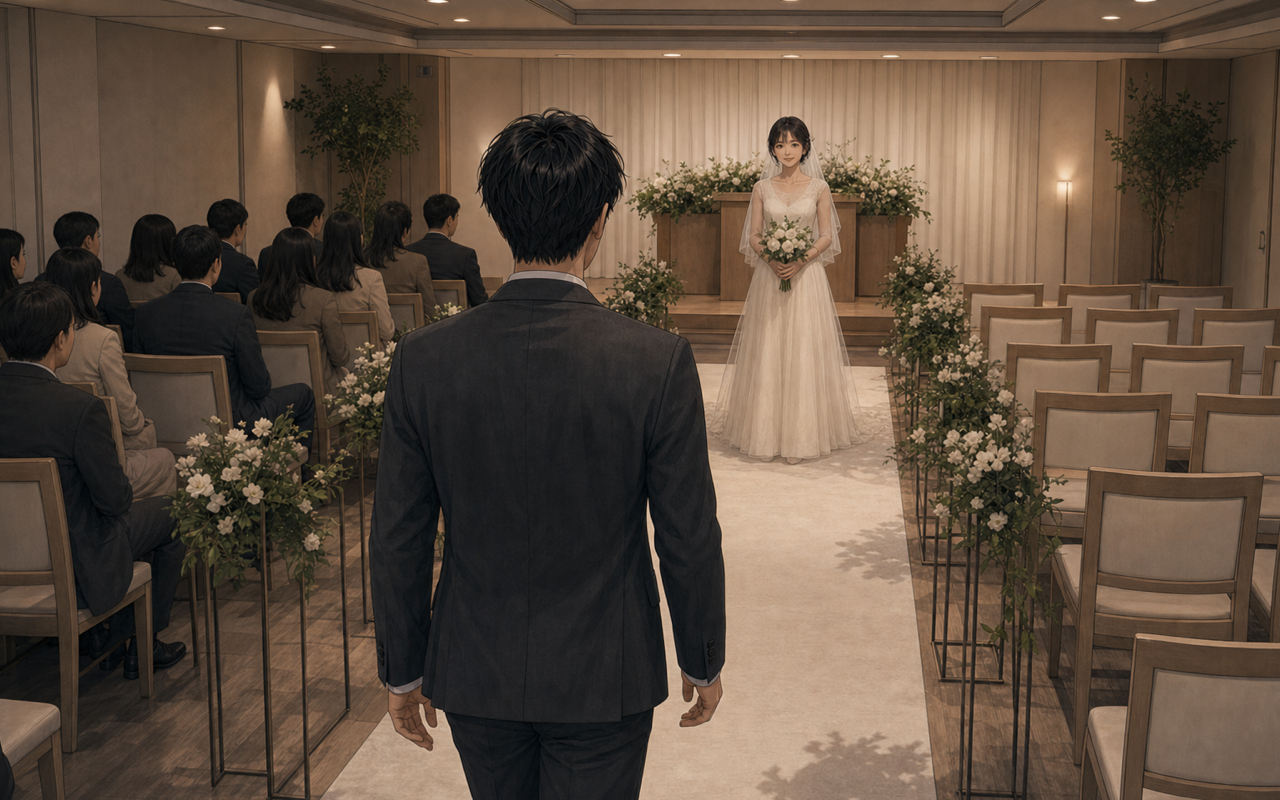
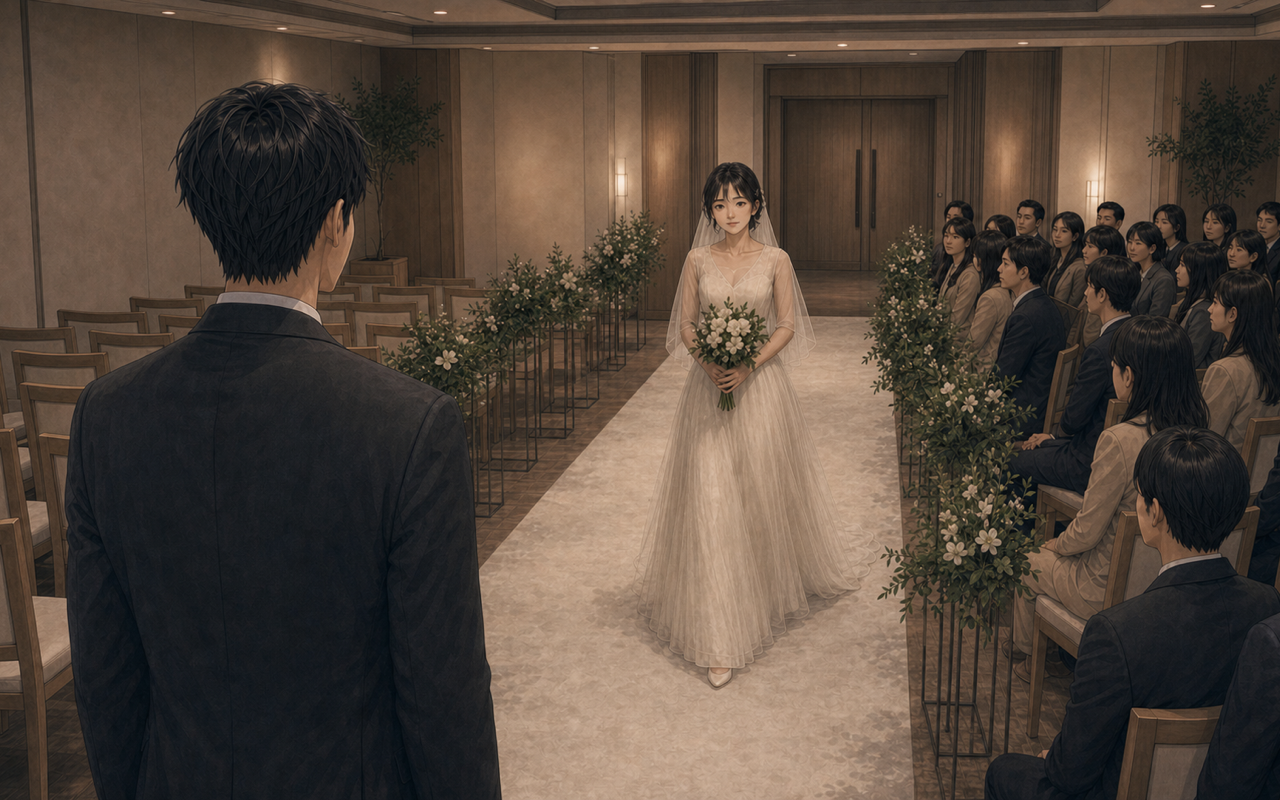
feat: rebuild Daeun wedding as a coherent climax

diff --git a/tools/peak_scene_chain_audit.py b/tools/peak_scene_chain_audit.py
@@ -57,11 +57,12 @@ MIN_DIALOGUE_TURNS = 2
 MIN_PANELS = 6
 
 # Ratchet updated only after a peak is expanded and its rendered QA passes.
-BASELINE_DEBT = 25
+BASELINE_DEBT = 24
 REQUIRED_PASS = {
     "arc_date_namsan_daeun",
     "arc_date_namsan_jiyeon",
     "arc_daeun_proposal",
+    "arc_daeun_wedding_day",
 }
 
 
@@ -241,6 +242,74 @@ def validate_daeun_proposal_contract(events: dict[str, dict[str, Any]]) -> None:
         raise ValueError("Daeun proposal defer branch must never reveal a CG")
 
 
+def validate_daeun_wedding_contract(events: dict[str, dict[str, Any]]) -> None:
+    """Preserve the paid ceremony variant and canonical aisle decision."""
+    root_id = "arc_daeun_wedding_day"
+    final_id = "arc_daeun_wedding_aisle"
+    expected_path = (
+        "arc_daeun_wedding_day",
+        "arc_daeun_wedding_walk",
+        "arc_daeun_wedding_aisle",
+    )
+    paths = walk_paths(events, root_id)
+    for path in paths:
+        if path.event_ids != expected_path:
+            raise ValueError(
+                "Daeun wedding path must retain the three-link aisle: "
+                f"{' -> '.join(path.event_ids)}"
+            )
+
+    protected_flags = {
+        "arc_daeun_wedding_day_seen",
+        "daeun_wedding_small",
+        "daeun_wedding_full",
+    }
+    for event_id in expected_path[:-1]:
+        for choice in events[event_id].get("choices") or []:
+            leaked = protected_flags.intersection(choice.get("flags") or [])
+            if leaked:
+                raise ValueError(
+                    f"Daeun wedding buildup changes route flags at {event_id}: "
+                    f"{', '.join(sorted(leaked))}"
+                )
+
+    expected_cg_if_known = {
+        "daeun_wedding_full": "cg_romance_wedding_daeun_full",
+        "daeun_wedding_small": "cg_romance_wedding_daeun_small",
+    }
+    for event_id in expected_path:
+        event = events[event_id]
+        if event.get("cg") != "cg_romance_wedding_daeun_small":
+            raise ValueError(f"Daeun wedding legacy CG changed at {event_id}")
+        if event.get("cg_if_known") != expected_cg_if_known:
+            raise ValueError(f"Daeun wedding variant map changed at {event_id}")
+
+    final_choices = events[final_id].get("choices") or []
+    if len(final_choices) != 2:
+        raise ValueError("Daeun wedding final decision must retain exactly two choices")
+    expected = (
+        {
+            "effects": {"mental": 10, "tint": 4},
+            "flags": ["arc_daeun_wedding_day_seen"],
+            "cast_effects": {"daeun": {"affinity": 8}},
+        },
+        {
+            "effects": {"mental": -6, "tint": 2},
+            "flags": ["arc_daeun_wedding_day_seen"],
+        },
+    )
+    for index, contract in enumerate(expected):
+        choice = final_choices[index]
+        for key, value in contract.items():
+            if choice.get(key) != value:
+                raise ValueError(
+                    f"Daeun wedding final choice {index} changed {key}: "
+                    f"{choice.get(key)!r}!={value!r}"
+                )
+    if final_choices[1].get("cast_effects"):
+        raise ValueError("Daeun wedding empty-seat reflection must not gain cast effects")
+
+
 def measure(label: str, root_id: str, events: dict[str, dict[str, Any]]) -> PeakMetric:
     paths = walk_paths(events, root_id)
     links = [len(path.event_ids) for path in paths]
@@ -298,6 +367,7 @@ def main() -> int:
     ko_events = load_events(EVENTS_KO)
     en_events = load_events(EVENTS_EN)
     validate_daeun_proposal_contract(ko_events)
+    validate_daeun_wedding_contract(ko_events)
     metrics = [measure(label, root_id, ko_events) for label, root_id in PEAK_ROOTS]
     visited = {
         event_id

diff --git a/assets/COMMITMENT_VISUAL_BIBLE.md b/assets/COMMITMENT_VISUAL_BIBLE.md
@@ -6,7 +6,7 @@ This document owns the visual continuity for proposal and wedding-choice scenes.
 
 - Use Gangnam Ink: Korean adult faces, restrained manhwa/VN rendering, matte paper grain, readable limited color, and deliberate Japanese visual-novel staging. No DSLR realism, mobile-game gloss, text, logos, or fake signage.
 - Minjun remains the same 33-37-year-old Korean man as `main_character_unemployed.png`: lean face, short tousled black hair, and worn black off-duty crewneck unless the scene explicitly requires formalwear.
-- Daeun remains the same 30-year-old Korean woman as `npc_daeun_smile.png`: short layered dark-brown hair, small clip at her left temple, warm brown eyes, modest adult styling. Never lengthen her hair or turn her into Jiyeon's glamorous silhouette.
+- Daeun remains the same 33-year-old Korean woman as `npc_daeun_smile.png`: short layered dark-brown hair, small clip at her left temple, warm brown eyes, modest adult styling. Never lengthen her hair or turn her into Jiyeon's glamorous silhouette.
 - Jiyeon remains the same 31-year-old Korean woman as `npc_mentor.png`: long black waves, sharp almond eyes, controlled old-money styling, and restrained geometric jewelry.
 - Named characters look at each other or the scene object. They do not address the lens unless the prose explicitly makes Minjun's POV the person being watched.
 - Keep faces, hands, the ring box, aisle imbalance, and seating chart above the lower 34% StoryMode dialogue/choice safe area.
@@ -35,10 +35,11 @@ The wedding-prep choice must survive into the wedding-day image. Both variants s
 
 ### Invariant Staging
 
-- Camera is behind/three-quarter behind Minjun as he begins walking toward Daeun at the far end of the aisle.
-- Bride side is visibly fuller; groom side is sparse. The imbalance must read in one second without labels.
+- Korean ceremony order is explicit: Minjun has already entered first and waits at the altar; Daeun enters afterward and walks from the rear doors toward him. The rear entrance, never an altar or podium, is visible behind Daeun.
+- Camera is behind/three-quarter behind Minjun at the altar and looks outward toward the entrance. Daeun approaches the camera and Minjun without lens contact.
+- Screen-left groom side is sparse; screen-right bride side is visibly fuller. The imbalance must read in one second without labels.
 - Guests remain anonymous and distant. Do not identify Father, Hyunsu, Daeun's mother, or any deceased/conditional person; those variants stay in prose and may contradict a baked guest face.
-- Daeun looks toward Minjun with contained emotion. Minjun's posture is tense but moving forward, not defeated or staring at the lens.
+- Daeun looks toward Minjun with contained emotion and a natural adult expression. Minjun's posture is tense but waiting, not defeated or staring at the lens.
 - Do not place critical guests in the lower dialogue-safe zone.
 
 ### Small Wedding
@@ -51,7 +52,7 @@ The wedding-prep choice must survive into the wedding-day image. Both variants s
 ### Full-Package Wedding
 
 - Asset: `assets/cg/romance/wedding_daeun_full_v1.png`.
-- Venue: polished larger Korean wedding hall with professional floral arch, higher ceiling, layered aisle lighting, and more elaborate but coherent decor.
+- Venue: polished full-package Seoul wedding hall with refined wall lighting and more elaborate but coherent aisle flowers. It stays spatially comparable to the modest hall so the social imbalance, not sheer room size, remains the focal difference.
 - Daeun: refined ivory satin A-line gown with restrained beaded bodice and longer veil; professional makeup must not change her face or age.
 - Minjun: fitted charcoal formal suit. The image may look expensive, but groom-side emptiness remains visible.
 
@@ -69,6 +70,6 @@ The wedding-prep choice must survive into the wedding-day image. Both variants s
 
 - `arc_daeun_proposal` → `arc_daeun_proposal_last_cup` → `arc_daeun_proposal_answer`: all buildup frames retain the cafe background and proposal portrait. Only the final event's accepted choice owns `cg_romance_proposal_daeun`, revealed at result paragraph 1; the defer branch never reveals it.
 - `arc_daeun_wedding_prep`: choice 0 records `daeun_wedding_small`; choice 1 records `daeun_wedding_full`.
-- `arc_daeun_wedding_day`: default small CG for legacy saves; `cg_if_known` selects the explicit small/full variant.
+- `arc_daeun_wedding_day` → `arc_daeun_wedding_walk` → `arc_daeun_wedding_aisle`: all three aisle frames retain the same ceremony variant. The default is the small CG for legacy saves; every link's `cg_if_known` selects the explicit small/full variant. Only the final aisle event may set `arc_daeun_wedding_day_seen`.
 - `arc_jiyeon_wedding_gap`: dedicated pre-decision full-scene CG.
 - All four CG files require active actor/camera/gaze/body contracts and Korean/English 1280x800 intro/choice/result captures where applicable.

diff --git a/docs/ROMANCE_SYSTEM.md b/docs/ROMANCE_SYSTEM.md
@@ -28,9 +28,10 @@
 ### 2-A. 프로포즈·결혼 비주얼 상태 계약
 
 - **행동 뒤에만 보상 CG**: `arc_daeun_proposal` → `arc_daeun_proposal_last_cup`의 도입·축적은 카페 배경과 `daeun_proposal` 초상만 사용한다. 최종 `arc_daeun_proposal_answer` 수락 선택지의 결과 문단 1에서만 `cg_romance_proposal_daeun`이 열리며, 상자를 다시 넣는 선택에는 CG가 절대 누출되지 않는다.
-- **준비 선택은 식장까지 보존**: `arc_daeun_wedding_prep`의 소형 선택은 `daeun_wedding_small`, 풀 패키지는 `daeun_wedding_full`을 기록한다. 두 플래그는 상호배타이며 `arc_daeun_wedding_day`의 `cg_if_known`이 해당 식장/드레스 변주를 선택한다.
+- **준비 선택은 식장 전체에 보존**: `arc_daeun_wedding_prep`의 소형 선택은 `daeun_wedding_small`, 풀 패키지는 `daeun_wedding_full`을 기록한다. 두 플래그는 상호배타이며 `arc_daeun_wedding_day` → `arc_daeun_wedding_walk` → `arc_daeun_wedding_aisle`의 모든 `cg_if_known`이 같은 식장/드레스 변주를 유지한다. 준비 비용을 당일에 다시 고르지 않으며 결혼 완료 플래그는 마지막 링크에서만 선다.
+- **입장 순서·화면 방향**: 민준이 먼저 입장해 단상에서 기다리고, 사회자의 신부 입장 선언 뒤 다은이 뒤쪽 문에서 나중에 들어와 민준에게 걸어온다. 단상에서 입구를 보는 화면 기준 왼쪽은 비어 있는 신랑석, 오른쪽은 다은의 사람들로 찬 신부석이다. 두 CG와 세 링크의 산문은 이 순서와 방향을 바꾸지 않는다.
 - **레거시 세이브**: 이전 버전에서 결혼 준비 플래그가 없는 기혼 세이브는 소형 결혼식 CG를 기본값으로 사용한다. 저장 호환을 위해 결혼식을 막거나 임의의 새 선택을 발명하지 않는다.
-- **하객 정본**: 신부석이 차고 신랑석이 비는 사회적 결산은 두 이미지에 공통이다. 아버지 생존, 현수 재회, 다은의 어머니 방문처럼 조건부 인물은 식별 가능한 얼굴로 굽지 않고 `description_if_known` 산문에만 남긴다.
+- **하객 정본**: 화면 오른쪽 신부석이 차고 화면 왼쪽 신랑석이 비는 사회적 결산은 두 이미지에 공통이다. 아버지 생존, 현수 재회, 다은의 어머니 방문처럼 조건부 인물은 식별 가능한 얼굴로 굽지 않고 `description_if_known` 산문에만 남긴다.
 - **지연은 결과 전 압력만 보여준다**: `arc_jiyeon_wedding_gap`은 호텔 볼룸의 계급 협상 CG이며 결혼식 완료나 선택 결과가 아니다. 지연은 웨딩드레스가 아니라 아이보리 플래닝 수트를 입고, 신부 측 다수 카드와 신랑 측 세 장의 빈 카드가 선택 이전의 격차만 보여준다.
 - **소유 문서·검증**: 얼굴·복장·구도는 `assets/COMMITMENT_VISUAL_BIBLE.md`, 카메라·시선·몸 연기는 `assets/cg_acting_manifest.json`, 실제 선택 전후 배선은 `--qa=commitment --lang=ko/en`이 잠근다.
 

diff --git a/CLAUDE.md b/CLAUDE.md
@@ -13,10 +13,10 @@
 | **상품 정의** | "강남 가는 게임"이 아니라 **"영혼이 색으로 무너지는 걸 지켜보는 게임"** — MORAL_TINT + description_if_known(재독) + 잃을 수 있는 결혼. 마케팅·데모·트레일러 전부 이 하나로 정렬. |
 | **최종 품질 게이트** | 전 영역 기준점·P0~P3·메타90/100만장 검증 조건은 `docs/MASTER_RELEASE_AUDIT.md`. 콘텐츠 수량이 아니라 블랙박스 플레이·한영 패리티·패드 과업·외부 기억/전환 증거로 판정. |
 | **이번 스프린트 (5레버)** | ①**루프 압축(몽타주)** ✅완료 ②**데모 훅** ✅완료(콜드오픈+SNS dik 양변주) ③**클립 가능성** ✅완료(시간의 기록 비주얼 카드+데모판) ④**EN 일관성** ✅완료 ⑤**오디오 정체성** ✅완료(moral band BGM 질감 전이+선택적 3변주 슬롯) |
-| **최근 진행** | **2026-07-15 (Codex)** — `ORDER-24` 첫 확장으로 다은 프로포즈를 `마지막 잔→내년 이맘때→프로포즈` 3링크·2선택점으로 만들었다. 기존 최종 수락/보류 라우팅은 보존하고, 반지 CG·느린 줌·초상 연기를 같은 문단에 동기화했다. 정점 래칫은 PASS 3/부채 25. |
+| **최근 진행** | **2026-07-15 (Codex)** — `ORDER-24` 다은 결혼식을 `먼저 선 사람→다은의 속도→신랑석` 3링크·2선택점으로 확장했다. 민준이 먼저 단상에서 기다리고 다은이 나중에 입장하는 순서, 화면 왼쪽 빈 신랑석/오른쪽 찬 신부석, 소형/풀 변주와 기존 최종 효과를 정본·CG·감사에 함께 고정했다. 정점 래칫은 PASS 4/부채 24. |
 | **이전 주요** | **2026-07-14 (Codex)** — `ORDER-23` 무릎·마지막 상환·수첩 동기 각인과 후속 기억 재호출, `ORDER-22` 행동 에코·앰비언스·편의점 패드 시프트·AP 결과 수명 수리. 자동 QA 완료, 사용자 Round 2 GO 대기. 전체 이력 → `docs/WORK_LOG.md` |
-| **다음 작업** | **(Codex 백그라운드)** `arc_daeun_wedding_day`와 `arc_jiyeon_wedding_gap`을 각각 2~4링크·2~3선택점으로 확장한다. 소형/풀 예식 CG·지연의 선택 전 계급 압력과 기존 최종 라우팅은 보존한다. 사용자 Round 2 피드백이 오면 즉시 ORDER-22/23 재수리를 우선한다. |
-| **마지막 업데이트** | 2026-07-15 (Codex: ORDER-24 다은 프로포즈 3링크 완료, PASS 3/부채 25, KO/EN 렌더·전체 audit 통과) |
+| **다음 작업** | **(Codex 백그라운드)** `arc_jiyeon_wedding_gap`을 2~4링크·2~3선택점으로 확장한다. 선택 전 계급 압력 CG와 기존 최종 결혼 라우팅은 보존한다. 사용자 Round 2 피드백이 오면 즉시 ORDER-22/23 재수리를 우선한다. |
+| **마지막 업데이트** | 2026-07-15 (Codex: ORDER-24 다은 결혼식 3링크·CG 정합 수리 완료, PASS 4/부채 24, KO/EN 27컷 검증) |
 
 **세션 시작 시 위 "다음 작업"부터. 유저가 다른 지시를 하면 그쪽 우선.**
 

diff --git a/assets/CHARACTER_VISUAL_BIBLE.md b/assets/CHARACTER_VISUAL_BIBLE.md
@@ -108,7 +108,7 @@ No luxury watch, no designer styling, no polished Gangnam success look in early/
 
 **Proposal Outfit Lock:** Deep muted berry-red fine-knit date dress with a modest square neckline under a soft charcoal cropped cardigan. `npc_daeun_proposal.png` and `proposal_daeun_v1.png` preserve the same short hair, left-temple clip, adult proportions, and screen-left eye line. The portrait is the unaware pre-choice state; the accepted CG alone owns the hand-over-mouth reaction and open ring box.
 
-**Wedding Day Outfit Lock:** The small wedding uses a simple ivory A-line dress, short veil, small greenery bouquet, and natural makeup. The full package uses a refined ivory satin A-line gown, restrained beaded bodice, longer veil, and professional makeup without changing Daeun's face or age. `wedding_daeun_small_v1.png` and `wedding_daeun_full_v1.png` share identity, aisle camera, and the visibly sparse groom side; full continuity lives in `assets/COMMITMENT_VISUAL_BIBLE.md`.
+**Wedding Day Outfit Lock:** The small wedding uses a simple ivory A-line dress, short veil, small greenery bouquet, and natural makeup. The full package uses a refined ivory satin A-line gown, restrained beaded bodice, longer veil, and professional makeup without changing Daeun's face or age. In both variants Minjun has already entered and waits at the altar while Daeun walks from the rear doors toward him; screen-left groom seating stays sparse and screen-right bride seating stays full. `wedding_daeun_small_v1.png` and `wedding_daeun_full_v1.png` share identity, camera, ceremony order, and seating geometry; full continuity lives in `assets/COMMITMENT_VISUAL_BIBLE.md`.
 
 **Current Asset Status:** `assets/characters/npc_romantic_interest.png`, `assets/characters/npc_daeun_smile.png`, and `assets/characters/npc_daeun_sad.png` are the identity references. T0 scene outfits are locked by `npc_daeun_sea_v2.png`, `npc_daeun_fireworks.png`, `npc_daeun_cherry.png`, and December-only `npc_daeun_first_snow.png`; first kiss reuses `npc_daeun_smile.png` because its work outfit already matches the CG exactly. T1 Namsan uses `npc_daeun_namsan.png` paired with `assets/cg/romance/namsan_lock_daeun_v1.png`. T1 Amusement Park uses `npc_daeun_amusement.png` paired with `assets/cg/romance/amusement_lost_child_daeun_v1.png`. T1 Hometown uses `npc_daeun_hometown_worried.png` and `npc_daeun_hometown_warm.png` paired with `assets/cg/romance/hometown_night_bus_daeun_v1.png`. T1 First Morning uses `npc_daeun_wedding_night.png` paired with `assets/cg/romance/wedding_morning_daeun_v1.png`. T1 Commitment uses `npc_daeun_proposal.png` paired with `proposal_daeun_v1.png`, followed by the small/full wedding-day variants selected from the player's prep choice. T2 rupture uses the full-scene `assets/cg/romance/breakup_daeun_v1.png` and deliberately hides her pre-reveal portrait. The East Sea paired CG is `assets/cg/romance/sea_daeun_v3.png`; first-snow continuity is owned by `assets/FIRST_SNOW_VISUAL_BIBLE.md`.
 

diff --git a/docs/PEAK_SCENE_CHAIN_AUDIT.md b/docs/PEAK_SCENE_CHAIN_AUDIT.md
@@ -29,7 +29,7 @@
 | 다은 불꽃 | `arc_season_fireworks_daeun` | 1 | 1 | 4 | 2-3 | EXPAND |
 | 지연 불꽃 | `arc_season_fireworks_jiyeon` | 1 | 1 | 3 | 2-4 | EXPAND |
 | 다은 프로포즈 | `arc_daeun_proposal` | 3 | 2 | 25-26 | 9-10 | **PASS** |
-| 다은 결혼식 | `arc_daeun_wedding_day` | 1 | 1 | 7 | 0 | EXPAND |
+| 다은 결혼식 | `arc_daeun_wedding_day` | 3 | 2 | 26 | 3 | **PASS** |
 | 지연 결혼 격차 | `arc_jiyeon_wedding_gap` | 1 | 1 | 8 | 1-2 | EXPAND |
 | 지연 심판 | `arc_jiyeon_verdict` | 1 | 1 | 9-10 | 3-8 | EXPAND |
 | 다은 이혼 담판 | `arc_daeun_final_choice` | 1 | 1 | 8-10 | 1-2 | EXPAND |
@@ -44,13 +44,14 @@
 | 재혁 ghost | `arc_jaehyuk_04a_ghost` | 1-2 | 1-2 | 8-14 | 0 | EXPAND |
 | 재혁의 진짜 얼굴 | `arc_jaehyuk_mirror` | 1 | 1 | 7 | 1-3 | EXPAND |
 
-**현재 래칫:** 28개 중 PASS 3, 확장 부채 25. `tools/audit.sh`는 부채가 25보다 늘거나 남산 두 골드 스탠다드·다은 프로포즈가 퇴행하면 실패한다.
+**현재 래칫:** 28개 중 PASS 4, 확장 부채 24. `tools/audit.sh`는 부채가 24보다 늘거나 남산 두 골드 스탠다드·다은 프로포즈·다은 결혼식이 퇴행하면 실패한다.
 
 ## 집행 순서
 
 1. ✅ `arc_daeun_proposal`: `마지막 잔 → 내년 이맘때 → 프로포즈` 3링크와 2선택점으로 확장했다. 수락·보류 효과와 플래그는 최종 링크에만 남고, 수락 CG는 결과 문단 1에서만 열린다.
-2. **다음:** `arc_daeun_wedding_day`, `arc_jiyeon_wedding_gap`을 각각 독립 체인으로 만든다. 다은 소형/풀 CG와 지연의 선택 전 계급 압력이라는 기존 비주얼 사실은 바꾸지 않는다.
-3. `arc_sangchul_confrontation`: 떠남·묻음 분기도 1링크에서 끝나지 않도록 각 결과의 여파를 확보한다.
-4. 아버지 병상·별세·KTX, 첫 키스·첫날밤, 재혁, 어머니의 밥상·좁은 방, 심판·이혼, 계절 정점 순으로 부채를 낮춘다.
+2. ✅ `arc_daeun_wedding_day`: `먼저 선 사람 → 다은의 속도 → 신랑석` 3링크와 2선택점으로 확장했다. 민준이 먼저 입장해 기다리고 다은이 뒤쪽 문에서 나중에 들어오는 순서, 화면 왼쪽의 빈 신랑석과 오른쪽의 찬 신부석, 소형/풀 변주, 기존 최종 효과를 고정했다.
+3. **다음:** `arc_jiyeon_wedding_gap`을 독립 체인으로 만든다. 선택 전 계급 압력이라는 기존 비주얼 사실과 최종 결혼 라우팅은 바꾸지 않는다.
+4. `arc_sangchul_confrontation`: 떠남·묻음 분기도 1링크에서 끝나지 않도록 각 결과의 여파를 확보한다.
+5. 아버지 병상·별세·KTX, 첫 키스·첫날밤, 재혁, 어머니의 밥상·좁은 방, 심판·이혼, 계절 정점 순으로 부채를 낮춘다.
 
 각 정점은 별도 착수 선언·커밋·KO/EN 렌더를 갖는다. 사용자 Round 2 피드백이 들어오면 즉시 멈추고 ORDER-22/23 재수리를 우선한다.

diff --git a/docs/RELEASE_NOTES.md b/docs/RELEASE_NOTES.md
@@ -1,6 +1,7 @@
 # Gangnam Dream Release Notes
 
 ## Unreleased
+- Rebuilt Daeun's wedding as a three-link climax with two meaningful decisions while preserving the existing small/full costs, routes, final effects, and save fallback. Minjun now enters first and waits at the altar; Daeun enters later through the rear doors and walks toward him. Both wedding CG variants share the same readable geography: empty groom seating on screen-left, full bride seating on screen-right, and Daeun's canonical 33-year-old face, short layered hair, left-temple pin, adult proportions, and gaze toward Minjun. Korean/English 27-shot rendering covers the entire chain, long choices, result cards, variant persistence, and final-only completion flag; Tier-1 expansion debt drops from 25 to 24.
 - Expanded Daeun's proposal from a single decision into a three-link playable scene: the last cup, a conversation about next year, and the final proposal. Two early responses reveal how Minjun meets the relationship without committing marriage state; the canonical accept/defer effects, flags, relationship stage, and routes remain exclusively in the final choice. The slow zoom and proposal CG now arrive with the actual decision, with an expression-matched quiet first result beat before the hand-over-mouth CG appears on paragraph one. Korean/English 17-shot rendering, exact route contracts, arc flow, and the full compile audit cover the chain; Tier-1 expansion debt drops from 26 to 25.
 - Added a reproducible interaction-depth audit for all 28 canonical Tier-1 scenes. It follows the same `follow_up_event` paths players actually click through, counts meaningful decision points, StoryMode panels, and dialogue exchanges, and verifies Korean/English choice parity. Only the two Namsan routes currently meet the new 2-4-link/2-3-decision contract; the remaining 26 are now explicit expansion debt that cannot increase, preventing long prose inside a single event from masquerading as a fully staged climax.
 - Rebuilt Minjun's motivation as a playable prologue instead of a debt-summary paragraph. The canonical opening now makes the player choose how he responded when he saw Father kneeling, how he carried the final repayment insult, and which sentence he writes for his next five years. All nine identity traces persist, return through later Father/Sangchul/guarantee scenes, and the chosen notebook sentence remains beside the 3-billion-won goal, inside a controller-native notebook, and in month-end/montage rituals without exposing a moral score. Father contact is guaranteed at weeks 11, 15, and 21; Korean/English runtime, 1280x800 surface, pacing, and full 24-week input gates cover the new imprint.

diff --git a/docs/ART_AI_AUDIT.md b/docs/ART_AI_AUDIT.md
@@ -93,8 +93,8 @@
 | CG | `assets/cg/romance/proposal_daeun_v1.png` | `cg_romance_proposal_daeun` | 1280x800 | no | `43dd3019f278` | PASS-A | 원본 프레임의 손·눈·시선·동작·소품·안전 크롭 확인. |
 | CG | `assets/cg/romance/sea_daeun_v3.png` | `cg_romance_sea_daeun` | 1280x800 | no | `ab8f1fc8ff17` | PASS-A | 원본 프레임의 손·눈·시선·동작·소품·안전 크롭 확인. |
 | CG | `assets/cg/romance/sea_jiyeon_v2.png` | `cg_romance_sea_jiyeon` | 1280x800 | no | `66255a056e3d` | PASS-A | 원본 프레임의 손·눈·시선·동작·소품·안전 크롭 확인. |
-| CG | `assets/cg/romance/wedding_daeun_full_v1.png` | `cg_romance_wedding_daeun_full` | 1280x800 | no | `83b1b7d160c7` | PASS-A | 원본 프레임의 손·눈·시선·동작·소품·안전 크롭 확인. |
-| CG | `assets/cg/romance/wedding_daeun_small_v1.png` | `cg_romance_wedding_daeun_small` | 1280x800 | no | `53b364e063bb` | PASS-A | 원본 프레임의 손·눈·시선·동작·소품·안전 크롭 확인. |
+| CG | `assets/cg/romance/wedding_daeun_full_v1.png` | `cg_romance_wedding_daeun_full` | 1280x800 | no | `ffcb3d2637ef` | PASS-A | 원본·KO/EN 렌더 확인. 민준 선입장/단상 대기, 후면 문에서 다은 후입장, 화면 왼쪽 빈 신랑석/오른쪽 찬 신부석이 읽힌다. 다은의 성인 체형·얼굴·양손 꽃다발·민준을 향한 시선과 하단 안전 크롭에 이상 없음. |
+| CG | `assets/cg/romance/wedding_daeun_small_v1.png` | `cg_romance_wedding_daeun_small` | 1280x800 | no | `b2c89404d098` | PASS-A | 원본·KO/EN 렌더 확인. 민준 선입장/단상 대기, 후면 문에서 다은 후입장, 화면 왼쪽 빈 신랑석/오른쪽 찬 신부석이 읽힌다. 다은의 정본 얼굴·짧은 머리·양손 꽃다발·민준을 향한 시선과 하단 안전 크롭에 이상 없음. |
 | CG | `assets/cg/romance/wedding_gap_jiyeon_v1.png` | `cg_romance_wedding_gap_jiyeon` | 1280x800 | no | `cfc057f42309` | PASS-A | 원본 프레임의 손·눈·시선·동작·소품·안전 크롭 확인. |
 | CG | `assets/cg/romance/wedding_morning_daeun_v1.png` | `cg_romance_wedding_morning_daeun` | 1280x800 | no | `2ef8ad7e7552` | PASS-A | 원본 프레임의 손·눈·시선·동작·소품·안전 크롭 확인. |
 | CG | `assets/cg/romance/wedding_morning_jiyeon_v1.png` | `cg_romance_wedding_morning_jiyeon` | 1280x800 | no | `a6407b70c350` | PASS-A | 원본 프레임의 손·눈·시선·동작·소품·안전 크롭 확인. |

diff --git a/docs/WORK_LOG.md b/docs/WORK_LOG.md
@@ -1,5 +1,15 @@
 # Gangnam Dream Work Log
 
+## 2026-07-15 (Codex — ORDER-24 다은 결혼식 3링크·CG 정합 수리)
+
+### 먼저 들어온 신랑, 나중에 걸어오는 신부
+- 한 번의 선택으로 끝나던 `arc_daeun_wedding_day`을 `먼저 선 사람 → 다은의 속도 → 신랑석` 3링크로 확장했다. 민준은 먼저 입장해 단상에서 기다리고, 사회자의 신부 입장 선언 뒤 다은이 뒤쪽 문에서 나중에 들어와 민준에게 걸어온다. 첫 선택은 비어 있는 자기 쪽을 직면할지, 와 준 다은의 사람들에게 먼저 인사할지를 묻고 마지막 선택이 기존 결산을 그대로 맡는다.
+- 소형 800만원/풀 3,100만원 선택은 세 링크 내내 유지되고 다시 결제하거나 고르지 않는다. 결혼 완료 플래그와 기존 정신·Moral Tint·다은 호감도 효과는 마지막 링크에만 남겼다. 아버지·현수·다은의 어머니처럼 조건부 하객은 식별 가능한 얼굴로 CG에 굽지 않고 기존 기억 산문으로만 회수한다.
+
+### 좌석·얼굴·시선이 같은 사건을 말하도록
+- 소형/풀 CG를 같은 식장 문법으로 다시 만들었다. 단상에서 입구를 보는 화면 기준 왼쪽 신랑석은 비고 오른쪽 신부석은 차며, 민준의 뒤통수 너머로 다은이 후면 문에서 걸어온다. 다은은 정본 33세 얼굴, 짧은 레이어드 머리, 왼쪽 관자놀이 핀, 성인 체형, 민준을 향한 자연스러운 시선을 유지한다.
+- 이벤트 비주얼 계약·배우/카메라 매니페스트·캐릭터 및 결혼식 비주얼 바이블을 같은 구도로 동기화했다. 정점 감사 결과는 3링크/2선택점/26패널/대화 3회, 전체 PASS 4/부채 24다. KO/EN `--qa=commitment` 27컷씩에서 소형/풀·레거시 폴백·긴 영어 선택지·최종 결과 카드까지 확인했다.
+
 ## 2026-07-15 (Codex — ORDER-24 다은 프로포즈 3링크)
 
 ### 결정 전에 함께 숨 쉬는 장면

diff --git a/docs/QA_CHECKLIST.md b/docs/QA_CHECKLIST.md
@@ -52,7 +52,7 @@ Cross-discipline release gates and current product risks live in `docs/MASTER_RE
 | Amusement routes: parade→helping CG/result fork, coaster→correct booth→choice-only four-cut CG, KO/EN crop and expression continuity | `--qa=amusement --lang=ko/en` |
 | Daeun hometown route: interior train→separate maternal dining room→delayed night-bus result CG, summer outfit and KO/EN crop continuity | `--qa=hometown --lang=ko/en` |
 | First nights: heroine-specific home/portrait→night result→paragraph-delayed morning CG, same outfit, late-game month HUD, KO/EN crop | `--qa=wedding-morning --lang=ko/en` |
-| Commitment scenes: Daeun's three-link last-cup→next-year→proposal buildup, no premature marriage flags, final accepted delayed CG/no-CG defer branch, exclusive small/full wedding choice persistence, legacy small fallback, and Jiyeon pre-decision class-gap framing | `--qa=commitment --lang=ko/en` |
+| Commitment scenes: Daeun's three-link last-cup→next-year→proposal buildup; three-link groom-enters-first→bride-enters-later wedding; screen-left empty groom side/screen-right full bride side; no premature marriage flags; final accepted delayed CG/no-CG defer branch; exclusive small/full wedding choice persistence; legacy small fallback; and Jiyeon pre-decision class-gap framing (27 shots per language) | `--qa=commitment --lang=ko/en` |
 | Romance ruptures: canonical newlywed homes, Daeun hidden while she is in the adjacent room, non-separating branches with no leaked CG, and paragraph-delayed seal/departure CGs | `--qa=breakup --lang=ko/en` |
 | First snow: December-only store/car prelude→paragraph-1 CG, winter outfits, exactly two cans, left-driver/right-passenger seating, resting wipers, gaze and KO/EN crop | `--qa=first-snow --lang=ko/en` |
 | Climate portraits: monsoon rain shell, heatwave short sleeves/cooling towel, cold-snap parka/scarf and dedicated frozen street | `--qa=climate --lang=ko/en` |
